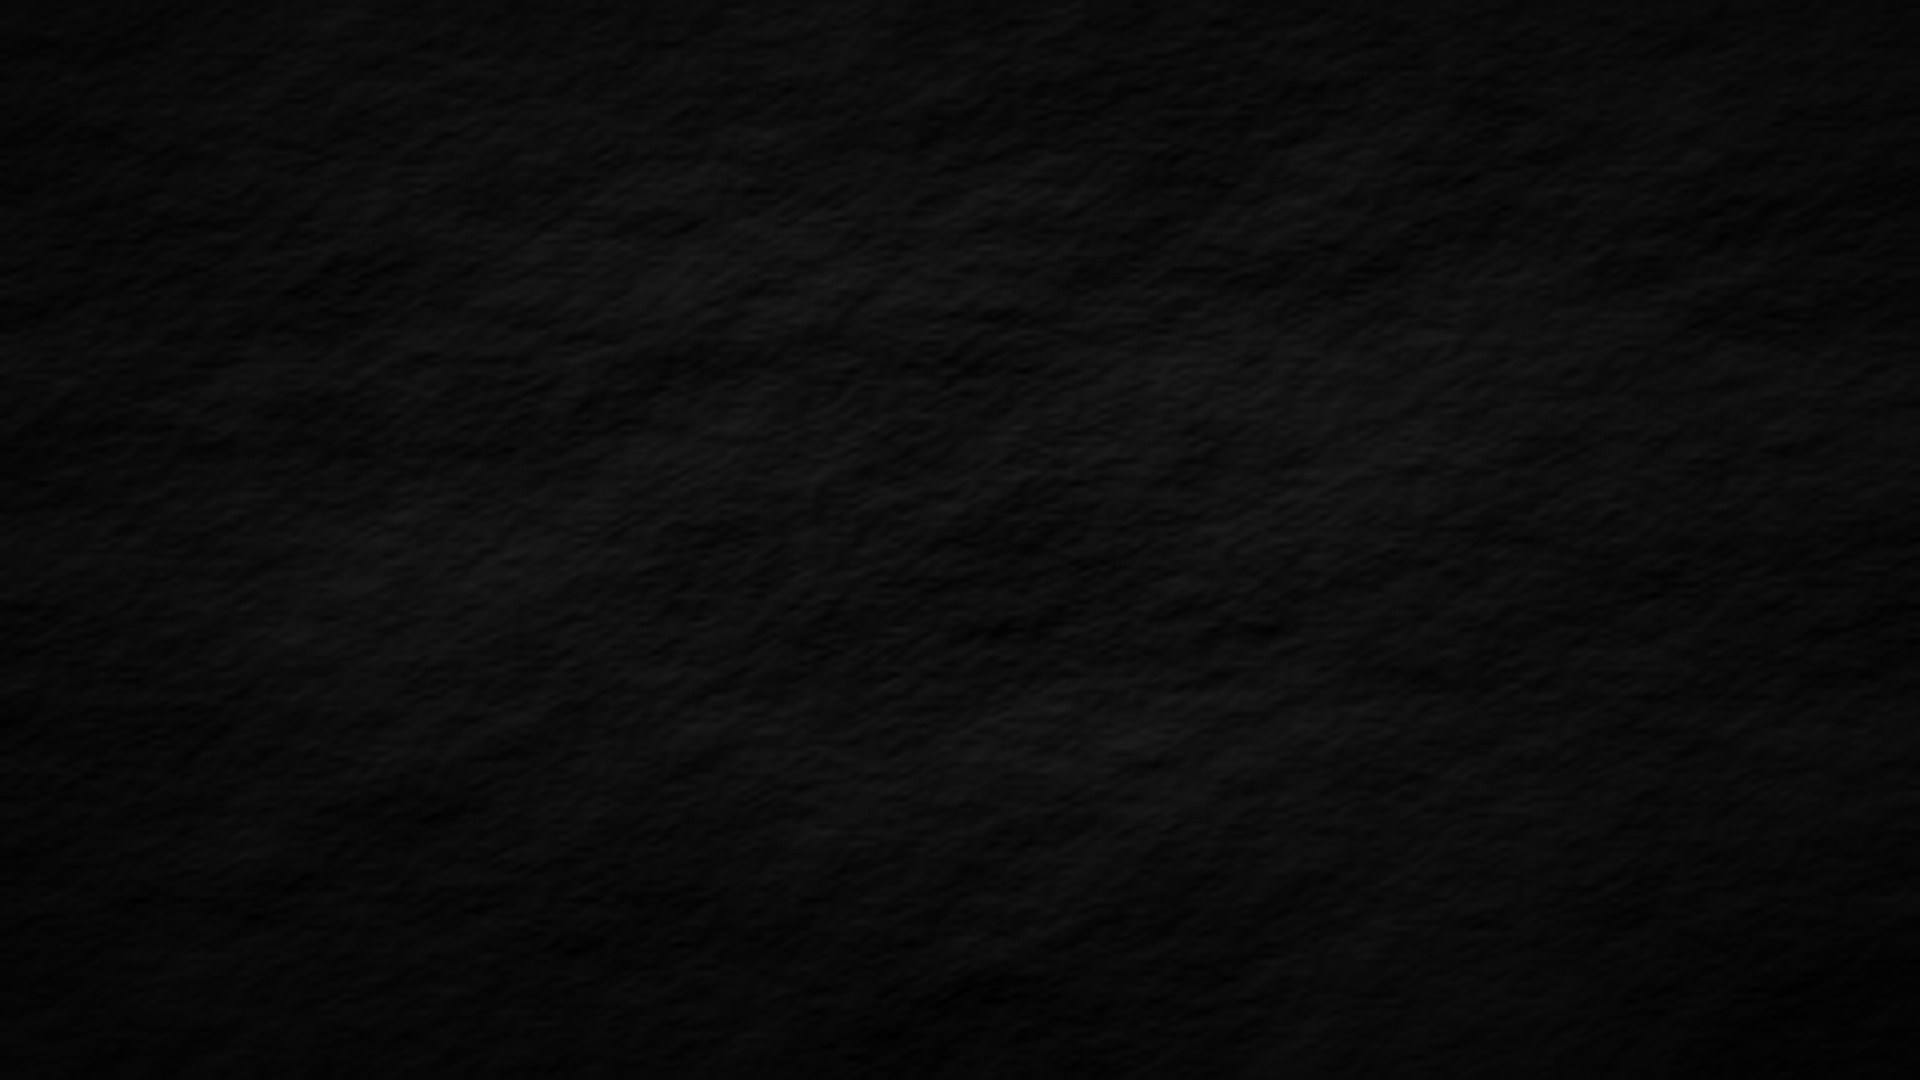
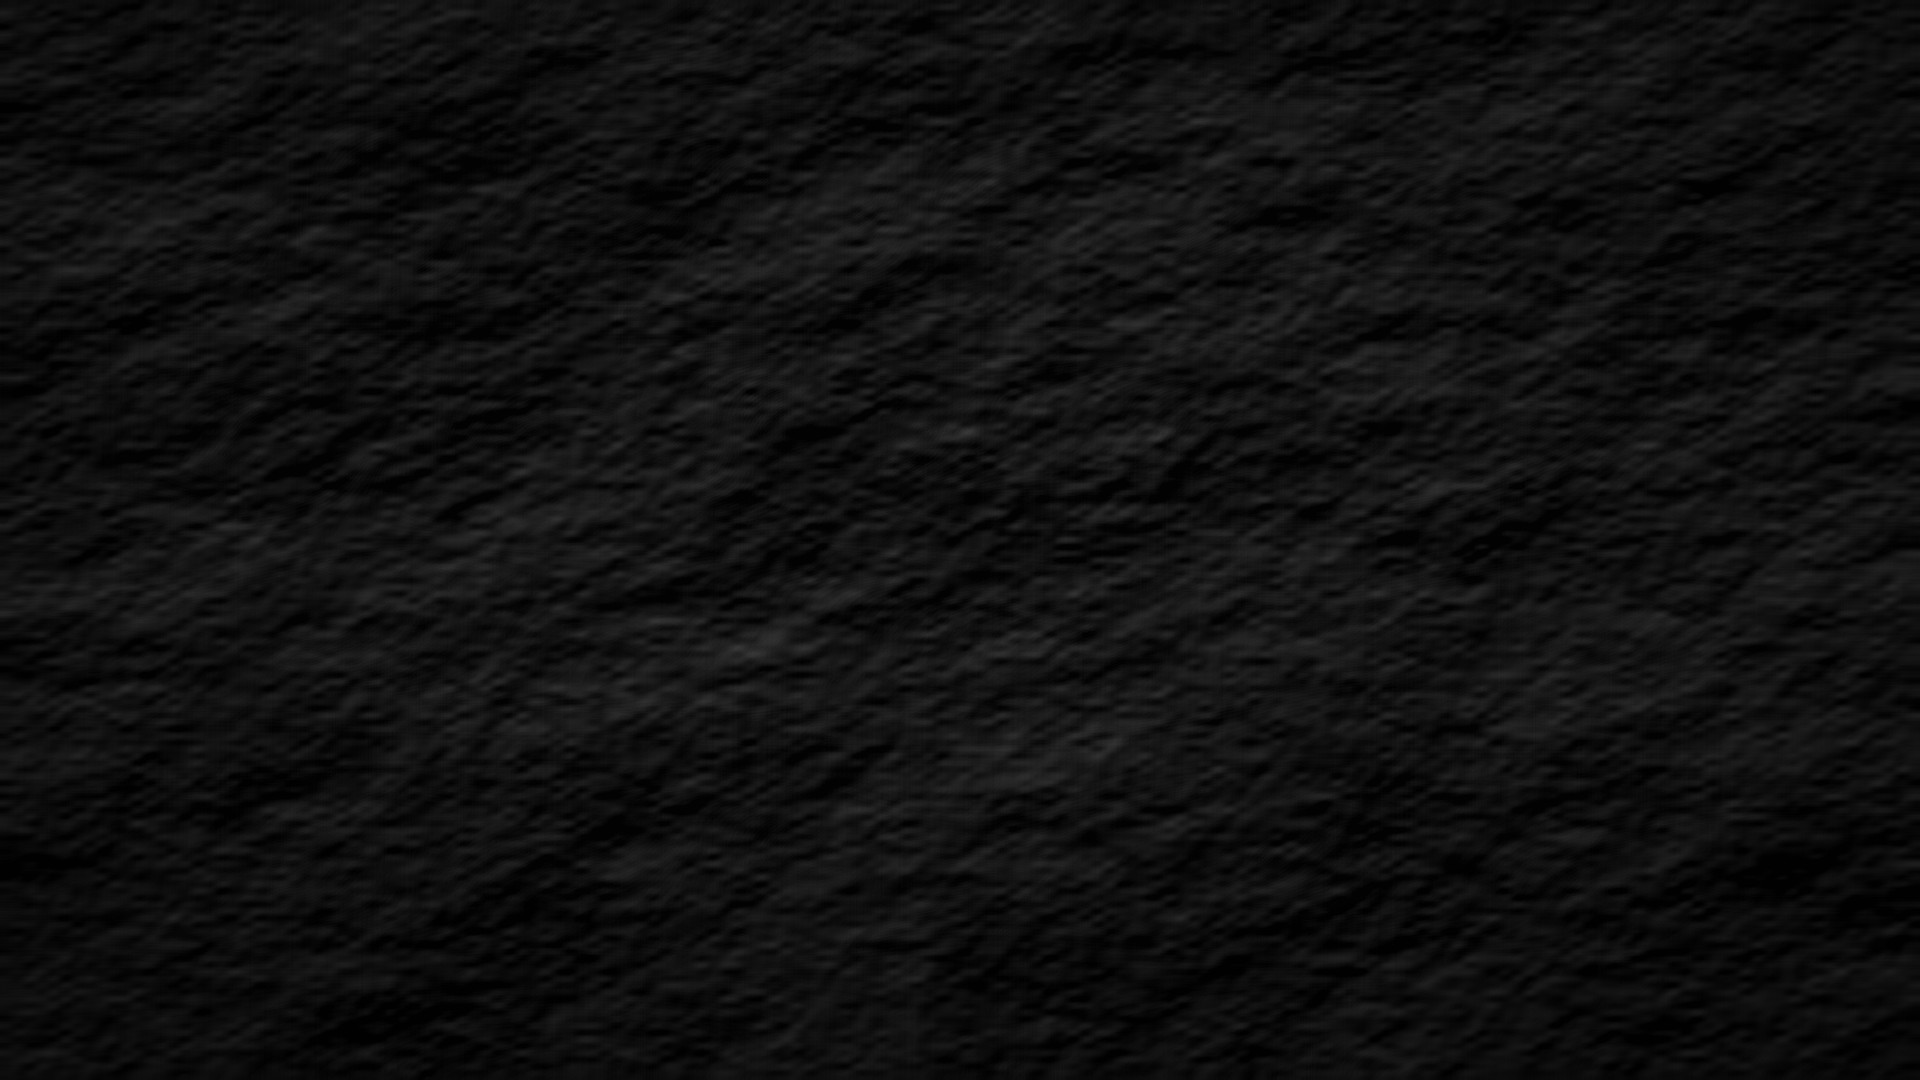
Premium pages: visible texture, no render strips, no halo, floating rounded header
- Regenerated premium-bg with visible crease relief (+ header-bg light texture);
  cut the heavy dark overlay so the texture reads (was flat black).
- Removed the render strips from the bottom of Site & Design, Land Terms,
  Product Mix, BTR, BTS, Hotel — data/design breathe.
- Floating card: removed the white inset halo; clean deep drop shadow only.
- Project header on premium tabs now floats as a rounded panel (lighter, using
  header-bg) so it hovers over the texture like the content card.

diff --git a/src/index.css b/src/index.css
@@ -369,42 +369,42 @@ input[type="checkbox"] {
 
 /* ── Premium floating stage — content pages hover over the dark texture ── */
 .premium-stage {
+  /* light overlay only — let the texture read; no flat-black wash */
   background:
-    radial-gradient(ellipse 90% 70% at 50% 36%, rgba(196,151,58,0.055), transparent 62%),
-    linear-gradient(rgba(4,4,4,0.50), rgba(3,3,3,0.74)),
+    linear-gradient(rgba(0,0,0,0.08), rgba(0,0,0,0.28)),
     url(/premium-bg.jpg) center / cover fixed,
-    #060606;
+    #0a0a0a;
   padding: clamp(14px, 3vh, 40px) clamp(10px, 3vw, 56px) clamp(32px, 6vh, 72px);
 }
 .premium-card {
+  position: relative;
   max-width: 1180px;
   margin: 0 auto;
   border-radius: 20px;
   overflow: hidden;
   background: #F4F2EF;
-  border: 1px solid rgba(255,255,255,0.12);
+  /* clean floating slab — deep drop shadow only, no white halo */
+  border: 1px solid rgba(0,0,0,0.4);
   box-shadow:
-    inset 0 1px 0 rgba(255,255,255,0.30),
-    inset 0 2px 0 rgba(255,255,255,0.10),
-    0 30px 60px -18px rgba(0,0,0,0.72),
-    0 70px 130px -34px rgba(0,0,0,0.60);
+    0 26px 55px -16px rgba(0,0,0,0.85),
+    0 55px 110px -34px rgba(0,0,0,0.7);
   transform-origin: center top;
-  animation: premium-rise 0.55s cubic-bezier(0.22,0.9,0.24,1) both;
+  animation: premium-rise 0.5s cubic-bezier(0.22,0.9,0.24,1) both;
 }
-/* subtle gold rim on the top edge for the floating/3D read */
-.premium-card::before {
-  content: '';
-  position: absolute;
-  left: 0; right: 0; top: 0; height: 2px;
-  background: linear-gradient(to right, transparent, rgba(196,151,58,0.55) 30%, rgba(196,151,58,0.55) 70%, transparent);
-  z-index: 5; pointer-events: none;
-}
-.premium-card { position: relative; }
 @keyframes premium-rise {
-  from { opacity: 0; transform: translateY(22px) scale(0.985); }
+  from { opacity: 0; transform: translateY(20px) scale(0.99); }
   to   { opacity: 1; transform: translateY(0) scale(1); }
 }
 @media (max-width: 700px) {
   .premium-stage { padding: 8px 6px 20px; }
   .premium-card { border-radius: 14px; }
+}
+
+/* Floating rounded project header on premium tabs */
+.ws-header-float {
+  margin: clamp(8px, 1.6vh, 14px) clamp(8px, 2.4vw, 40px) 0;
+  border-radius: 18px;
+  overflow: hidden;
+  border: 1px solid rgba(0,0,0,0.4);
+  box-shadow: 0 18px 42px -16px rgba(0,0,0,0.82);
 }

diff --git a/src/pages/ProjectWorkspace.tsx b/src/pages/ProjectWorkspace.tsx
@@ -75,9 +75,13 @@ export default function ProjectWorkspace() {
 
   return (
     <div className="ws-root flex flex-col h-full">
-      {/* Topbar — z-50 keeps it above fixed tab backgrounds */}
+      {/* Header — floats as a rounded panel over the texture on premium tabs */}
+      <div className={PREMIUM_TABS.includes(safeTab) ? 'ws-header-float relative z-50' : 'contents'}>
+      {/* Topbar */}
       <div className="ws-topbar drag-region relative z-50 flex items-center gap-4 md:gap-8 px-4 md:px-8 py-3 md:py-4 border-b border-[#1C1C1C]"
-        style={{ background: 'linear-gradient(rgba(8,8,8,0.78), rgba(8,8,8,0.84)), url(/home-bg.jpg) center / cover no-repeat, #0A0A0A' }}>
+        style={{ background: PREMIUM_TABS.includes(safeTab)
+          ? 'linear-gradient(rgba(16,16,18,0.56), rgba(10,10,12,0.70)), url(/header-bg.jpg) center / cover no-repeat, #101012'
+          : 'linear-gradient(rgba(8,8,8,0.78), rgba(8,8,8,0.84)), url(/home-bg.jpg) center / cover no-repeat, #0A0A0A' }}>
         <div className="flex items-center justify-center flex-shrink-0" style={{ minWidth: 80 }}>
           <button
             onClick={() => setActiveProject(null)}
@@ -120,6 +124,7 @@ export default function ProjectWorkspace() {
           goldTabId="insights"
         />
       </div>
+      </div>{/* /header float */}
 
       {/* Tab content — relative so absolute render-bg-fixed divs work on iOS */}
       <div className={`flex-1 overflow-auto workspace-content relative ${PREMIUM_TABS.includes(safeTab) ? 'premium-stage' : ''}`} style={{ WebkitOverflowScrolling: 'touch' } as React.CSSProperties}>

diff --git a/src/pages/tabs/SiteDesign.tsx b/src/pages/tabs/SiteDesign.tsx
@@ -205,9 +205,6 @@ export default function SiteDesignTab({ projectId }: Props) {
       <div className="md:hidden" style={{ height: 300 }}>
         <ProjectMap address={project?.address ?? ''} pinLabel={project?.mapPin} />
       </div>
-
-      {/* Render strip */}
-      <div style={{ height: 220, backgroundImage: 'url(/renders/haavn-hero.png)', backgroundSize: 'cover', backgroundPosition: 'center 55%', width: '100%', flexShrink: 0 }} />
       <SiteLinks />
     </div>
   )

diff --git a/src/pages/tabs/BTRTab.tsx b/src/pages/tabs/BTRTab.tsx
@@ -170,8 +170,6 @@ export default function BTRTab({ projectId }: Props) {
         )}
       </div>
       </div>
-      {/* Render strip */}
-      <div style={{ height: 320, backgroundImage: 'url(/renders/haavn-render5.png)', backgroundSize: 'cover', backgroundPosition: 'center 85%', width: '100%', flexShrink: 0 }} />
       <SiteLinks />
     </div>
   )

diff --git a/src/pages/tabs/BTSTab.tsx b/src/pages/tabs/BTSTab.tsx
@@ -158,8 +158,6 @@ export default function BTSTab({ projectId }: Props) {
         </div>
       </div>
       </div>
-      {/* Render strip */}
-      <div style={{ height: 320, backgroundImage: 'url(/renders/haavn-render6.png)', backgroundSize: 'cover', backgroundPosition: 'center 60%', width: '100%', flexShrink: 0 }} />
       <SiteLinks />
     </div>
   )

diff --git a/src/pages/tabs/HotelTab.tsx b/src/pages/tabs/HotelTab.tsx
@@ -183,8 +183,6 @@ export default function HotelTab({ projectId }: Props) {
         })()}
       </div>
       </div>
-      {/* Render strip */}
-      <div style={{ height: 320, backgroundImage: 'url(/renders/haavn-render-hotel.jpg)', backgroundSize: 'cover', backgroundPosition: 'center 50%', width: '100%', flexShrink: 0 }} />
       <SiteLinks />
     </div>
   )

diff --git a/src/pages/tabs/LandTerms.tsx b/src/pages/tabs/LandTerms.tsx
@@ -209,8 +209,6 @@ export default function LandTermsTab({ projectId }: Props) {
         </div>
       )}
       </div>
-      {/* Render strip */}
-      <div style={{ height: 320, backgroundImage: 'url(/renders/haavn-render3.png)', backgroundSize: 'cover', backgroundPosition: 'center 65%', width: '100%', flexShrink: 0 }} />
       <SiteLinks />
     </div>
   )

diff --git a/src/pages/tabs/ProductMix.tsx b/src/pages/tabs/ProductMix.tsx
@@ -381,8 +381,6 @@ export default function ProductMixTab({ projectId }: Props) {
           </div>
         ) : null}
       </div>
-      {/* Render strip */}
-      <div style={{ height: 320, backgroundImage: 'url(/renders/haavn-render4.png)', backgroundSize: 'cover', backgroundPosition: 'center 50%', width: '100%', flexShrink: 0 }} />
       <SiteLinks />
     </div>
   )